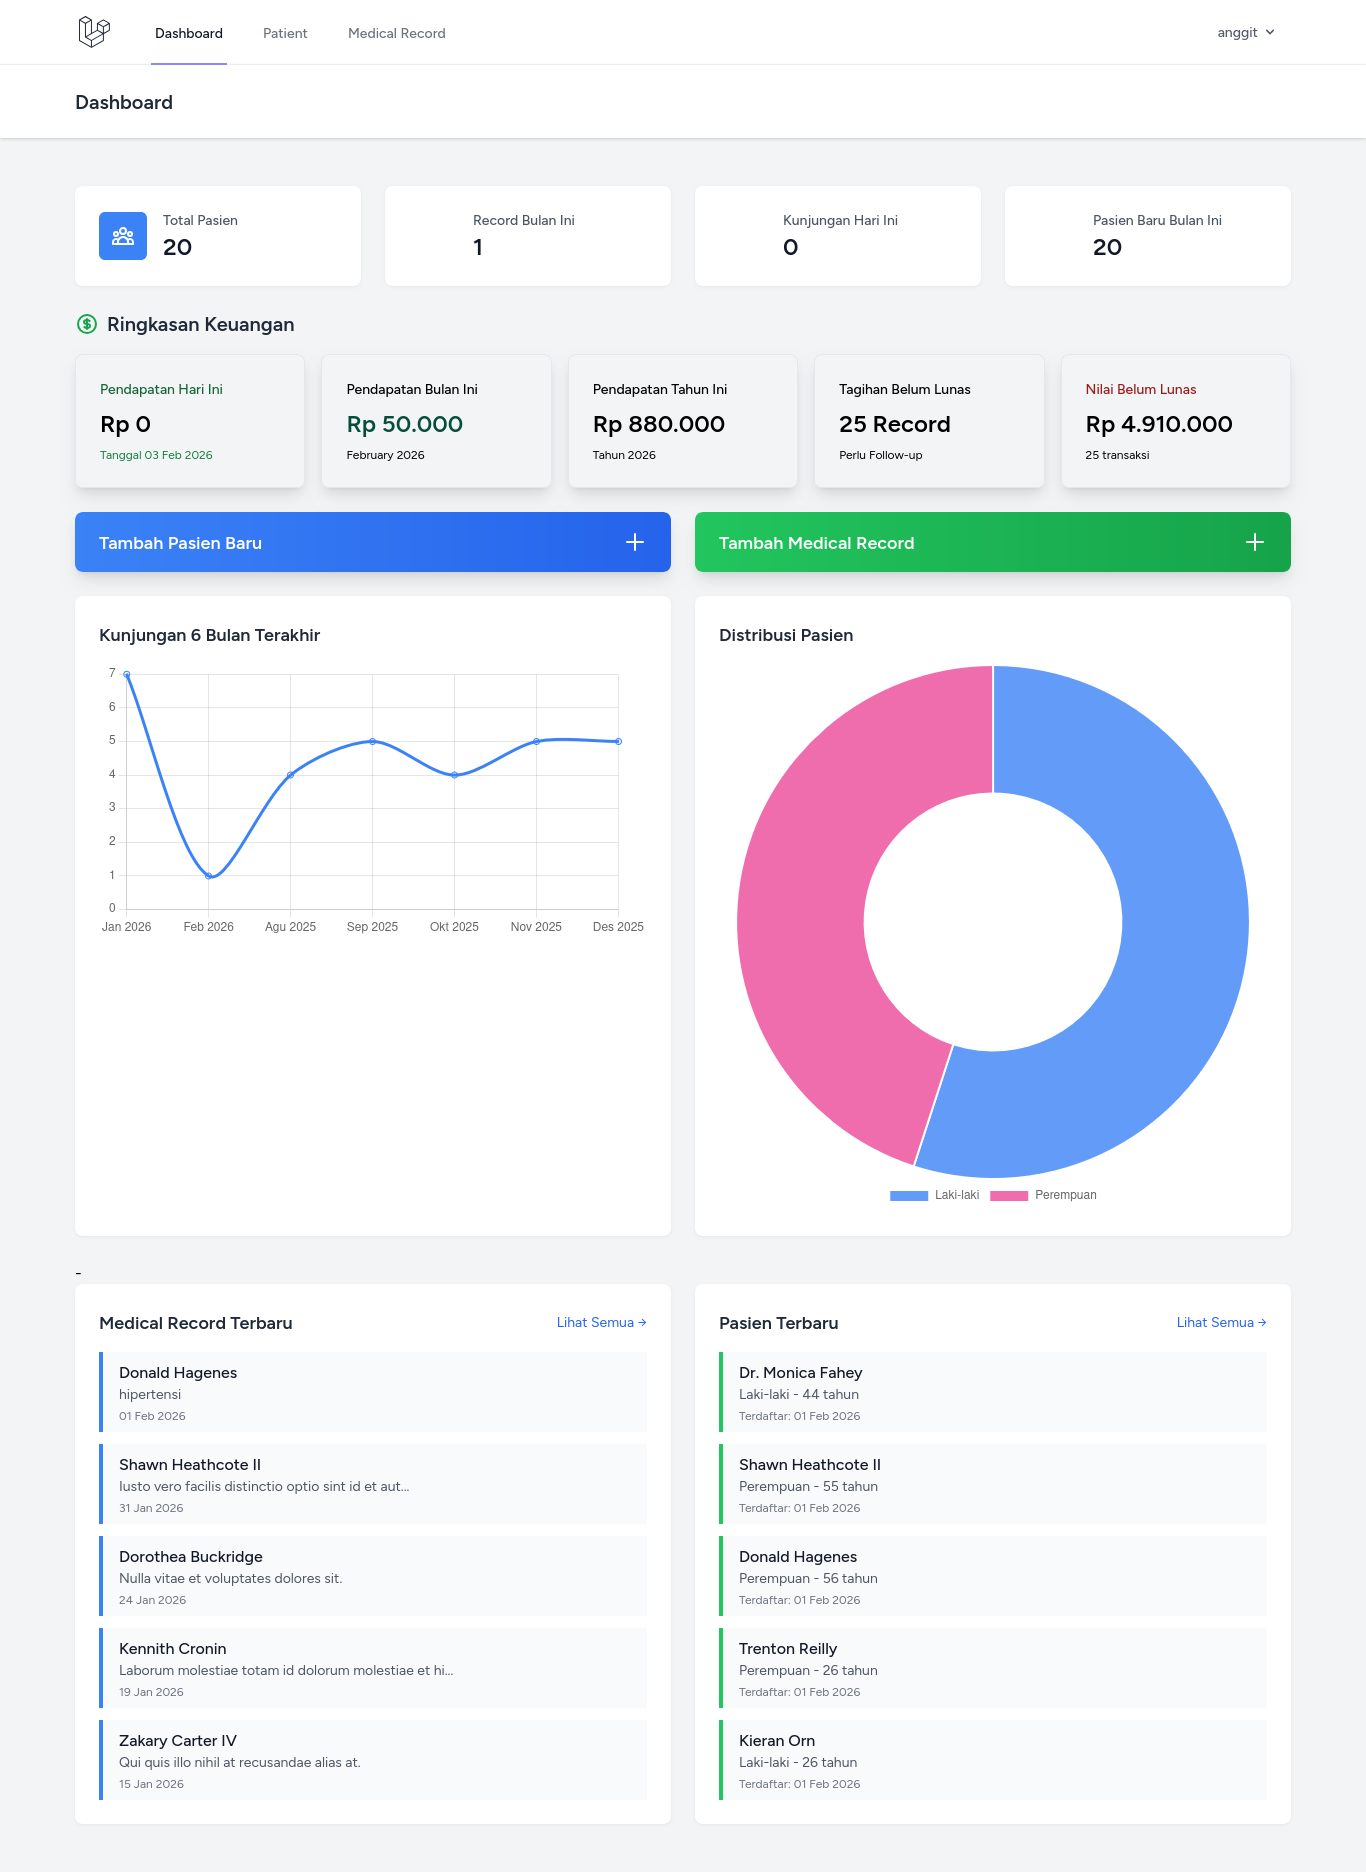
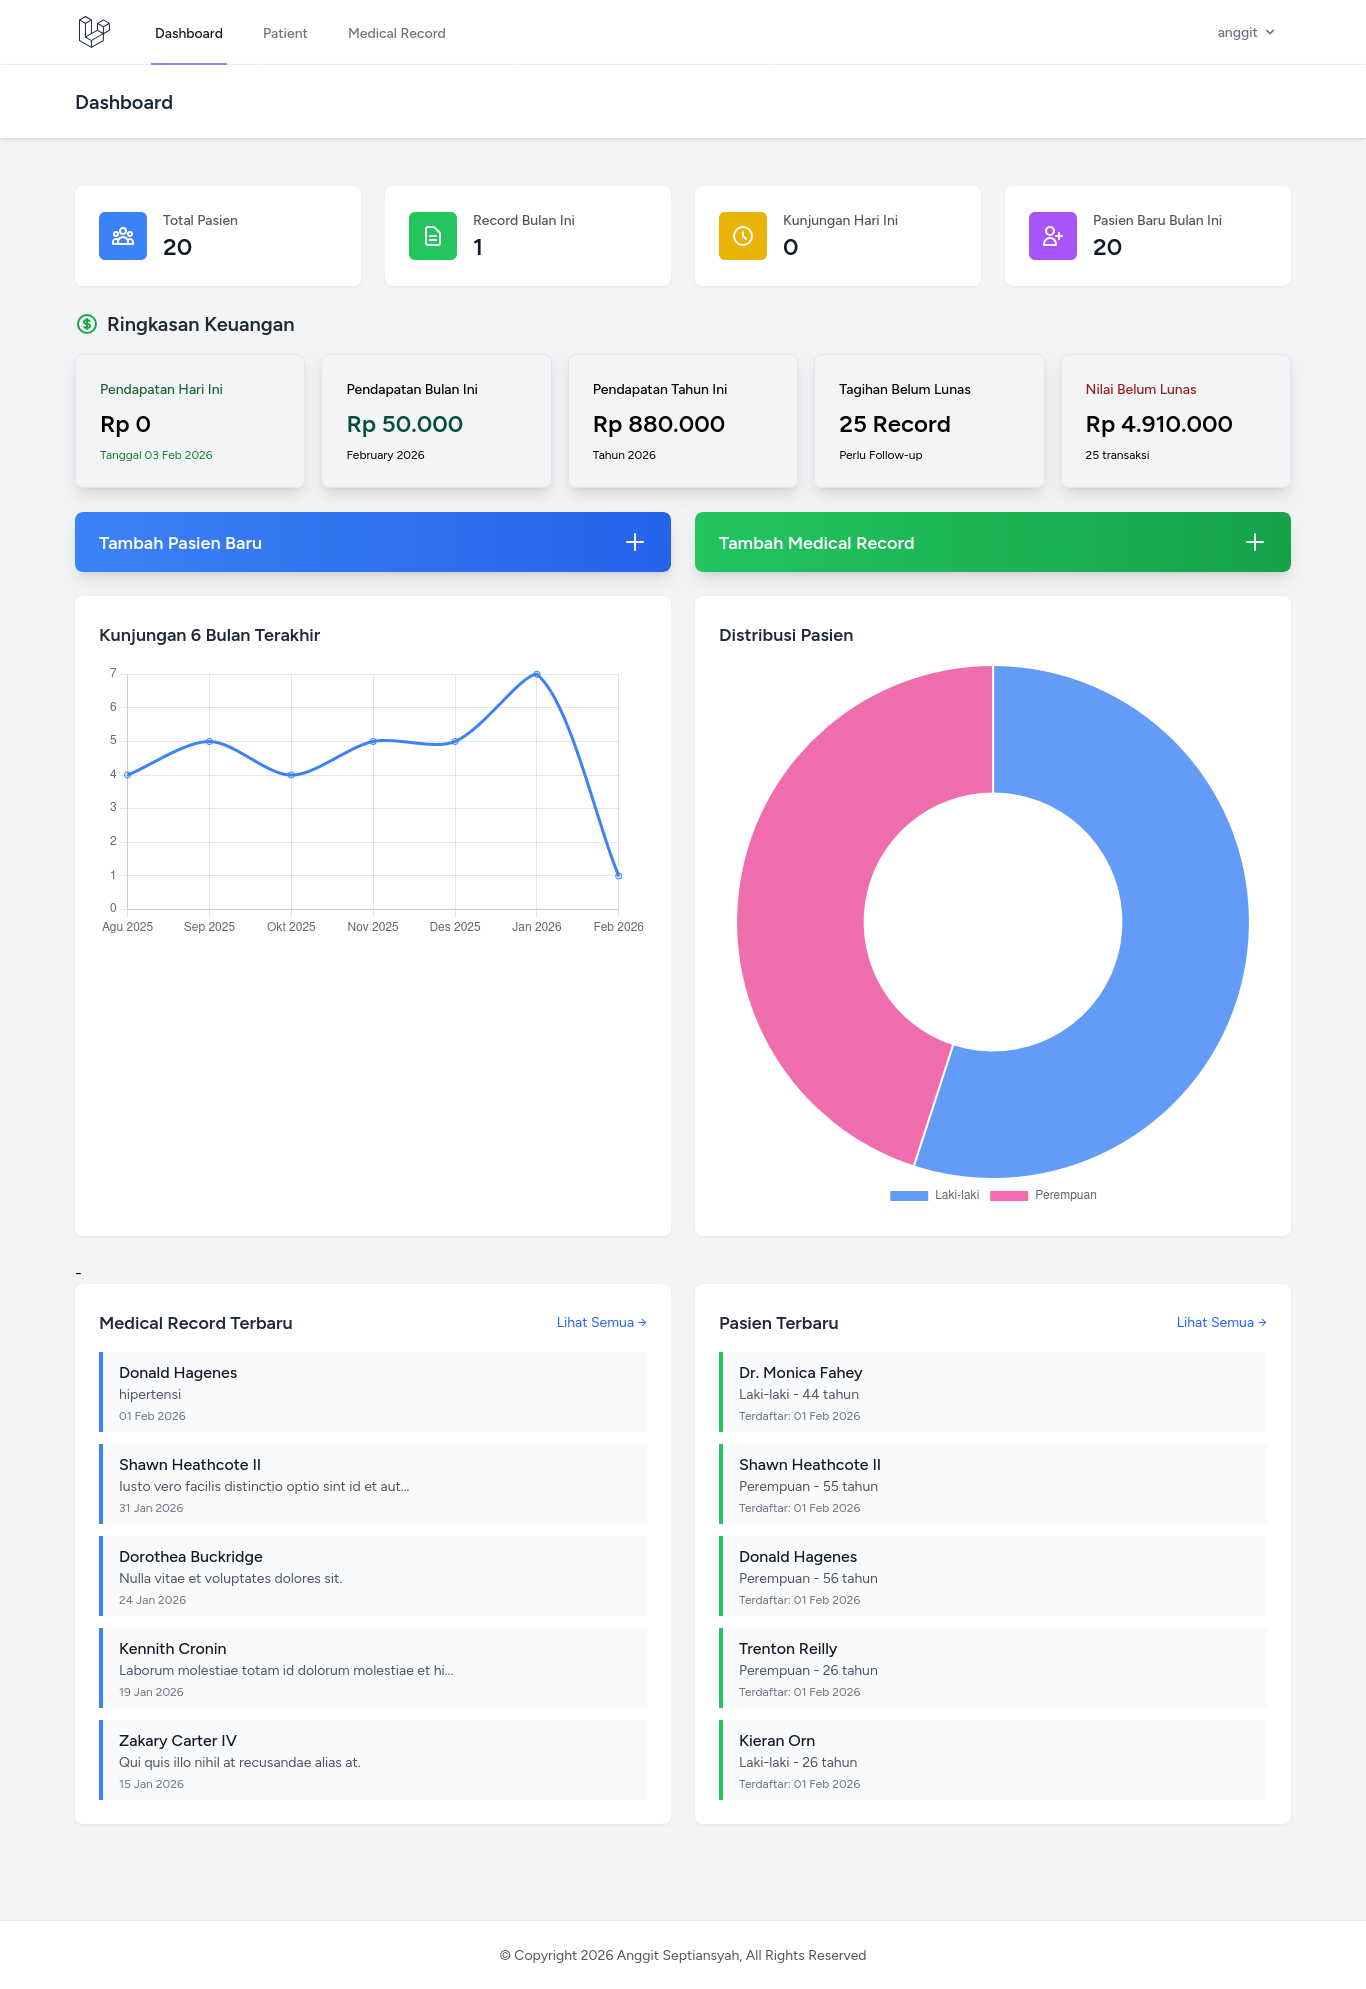
Change readme.md, menambahkan footer, dan memperbaiki charts

diff --git a/app/Services/DashboardService.php b/app/Services/DashboardService.php
@@ -33,26 +33,30 @@ class DashboardService
 
     public function getMonthlyVisits(): array
     {
-        // Database agnostic - works with both MySQL and SQLite
-        $records = MedicalRecord::where('visit_date', '>=', now()->subMonths(6))
-            ->get(['visit_date'])
-            ->groupBy(function($record) {
-                return $record->visit_date->format('Y-m');
-            })
-            ->map(function($group, $key) {
-                $date = Carbon::createFromFormat('Y-m', $key);
-                return [
-                    'month' => (int) $date->format('m'),
-                    'year' => (int) $date->format('Y'),
-                    'total' => $group->count(),
-                ];
-            })
-            ->sortBy('year')
-            ->sortBy('month')
-            ->values()
-            ->toArray();
+         // Database agnostic - works with both MySQL and SQLite
+    $records = MedicalRecord::where('visit_date', '>=', now()->subMonths(6))
+        ->get(['visit_date'])
+        ->groupBy(function($record) {
+            return $record->visit_date->format('Y-m');
+        })
+        ->map(function($group, $key) {
+            $date = Carbon::createFromFormat('Y-m', $key);
+            return [
+                'month' => (int) $date->format('m'),
+                'year' => (int) $date->format('Y'),
+                'total' => $group->count(),
+                'sort_key' => $key, // Tambahkan ini untuk sorting
+            ];
+        })
+        ->sortBy('sort_key') // Sort by year-month string (2025-08, 2025-09, dst)
+        ->values()
+        ->map(function($item) {
+            unset($item['sort_key']); // Remove sort_key sebelum return
+            return $item;
+        })
+        ->toArray();
 
-        return $records;
+    return $records;
     }
 
     public function getRecentRecords(int $limit = 5)

diff --git a/resources/views/components/stat-card.blade.php b/resources/views/components/stat-card.blade.php
@@ -1,9 +1,11 @@
 <div class="bg-white overflow-hidden shadow-sm sm:rounded-lg">
     <div class="p-6">
         <div class="flex items-center">
-            <div class="flex-shrink-0 bg-{{ $color }}-500 rounded-md p-3">
-                {{ $icon }}
-            </div>
+            @if(isset($icon))
+                <div class="flex-shrink-0 bg-{{ $color }}-500 rounded-md p-3">
+                    {{ $icon }}
+                </div>
+            @endif
             <div class="ml-4">
                 <p class="text-sm font-medium text-gray-600">{{ $title }}</p>
                 <p class="text-2xl font-semibold text-gray-900">{{ number_format($value) }}</p>

diff --git a/resources/views/layouts/app.blade.php b/resources/views/layouts/app.blade.php
@@ -31,6 +31,15 @@
             <main>
                 {{ $slot }}
             </main>
+
+            <!-- Footer -->
+            <footer class="bg-white border-t border-gray-200 mt-12">
+                <div class="max-w-7xl mx-auto py-6 px-4 sm:px-6 lg:px-8">
+                    <p class="text-center text-sm text-gray-600">
+                        © Copyright 2026 Anggit Septiansyah, All Rights Reserved
+                    </p>
+                </div>
+            </footer>
         </div>
 
         <!-- ... existing scripts -->
